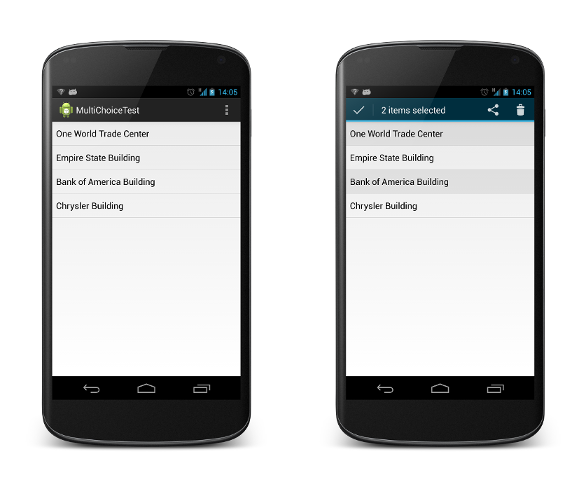
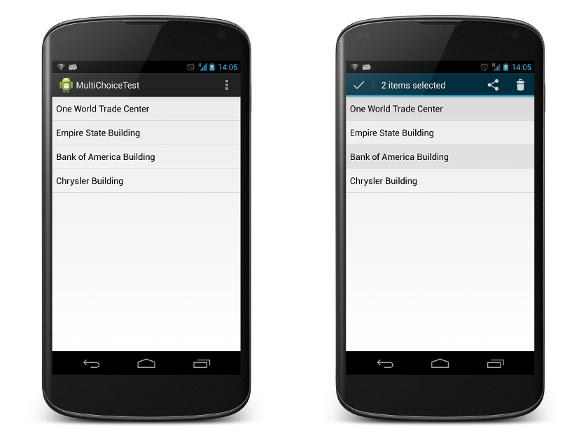
Adjusted screenshot margins, improved README.md

diff --git a/README.md b/README.md
@@ -1,10 +1,10 @@
 MultiChoiceAdapter
 ==================
 
-MultiChoiceAdapter is an implementation of ListAdapter which adds support for modal multiple choice selection as in the native GMail app. 
+MultiChoiceAdapter is an implementation of ListAdapter which adds support for modal multiple choice selection as in the native Gmail app. 
 
 It provides a functionality similar to that of the [`CHOICE_MODE_MULTIPLE_MODAL`][1] ListView mode, but in a manner that is compatible 
-with every version of Android from 2.1. Of course, this requires that your project uses [ActionBarSherlock][2].
+with every version of Android from 2.x. Of course, this requires that your project uses [ActionBarSherlock][2].
 
 ![Example Image][3]
 
@@ -19,24 +19,24 @@ Instead of deriving your adapter from BaseAdapter or one of its subclasses, deri
 
 #### ActionMode methods
 
-* *onCreateActionMode.* Creates the action mode that will be displayed when at least one item is selected
-* *onActionModeClicked.* Responds to a click on any of your action mode's actions
+* <code>onCreateActionMode.</code> Creates the action mode that will be displayed when at least one item is selected
+* <code>onActionModeClicked.</code> Responds to a click on any of your action mode's actions
 
 #### ListAdapter methods
 
-* *getCount.* Returns the number of items to show
-* *getItem.* Returns the item at a given position
-* *getItemId.* Returns the id of the item at a given position
-* *getViewImpl.* Returns the view to show for a given position. *Important:* do not override ListAdapter's getView method, override this method instead
+* <code>getCount.</code> Returns the number of items to show
+* <code>getItem.</code> Returns the item at a given position
+* <code>getItemId.</code> Returns the id of the item at a given position
+* <code>getViewImpl.</code> Returns the view to show for a given position. **Important:** do not override ListAdapter's getView method, override this method instead
 
-Once you've implemented your class that derives from MultiChoiceAdapter, you'll have to attach it to a ListView like this:
+Once you've implemented your class that derives from MultiChoiceAdapter, you attach an instance of it to your ListView like this:
 
 	multiChoiceAdapter.setAdapterView(listView);
 	multiChoiceAdapter.setOnItemClickListener(myItemListClickListener);
 
-Do not call setOnItemClickListener on your ListView, call it on the adapter instead
+Do not call setOnItemClickListener on your ListView, call it on the adapter instead.
 
-Do not forget to derive your activity from one of the ActionBarSherlock activities, except SherlockListActivity
+Do not forget to derive your activity from one of the ActionBarSherlock activities, except SherlockListActivity.
 
 Developed By
 ============
